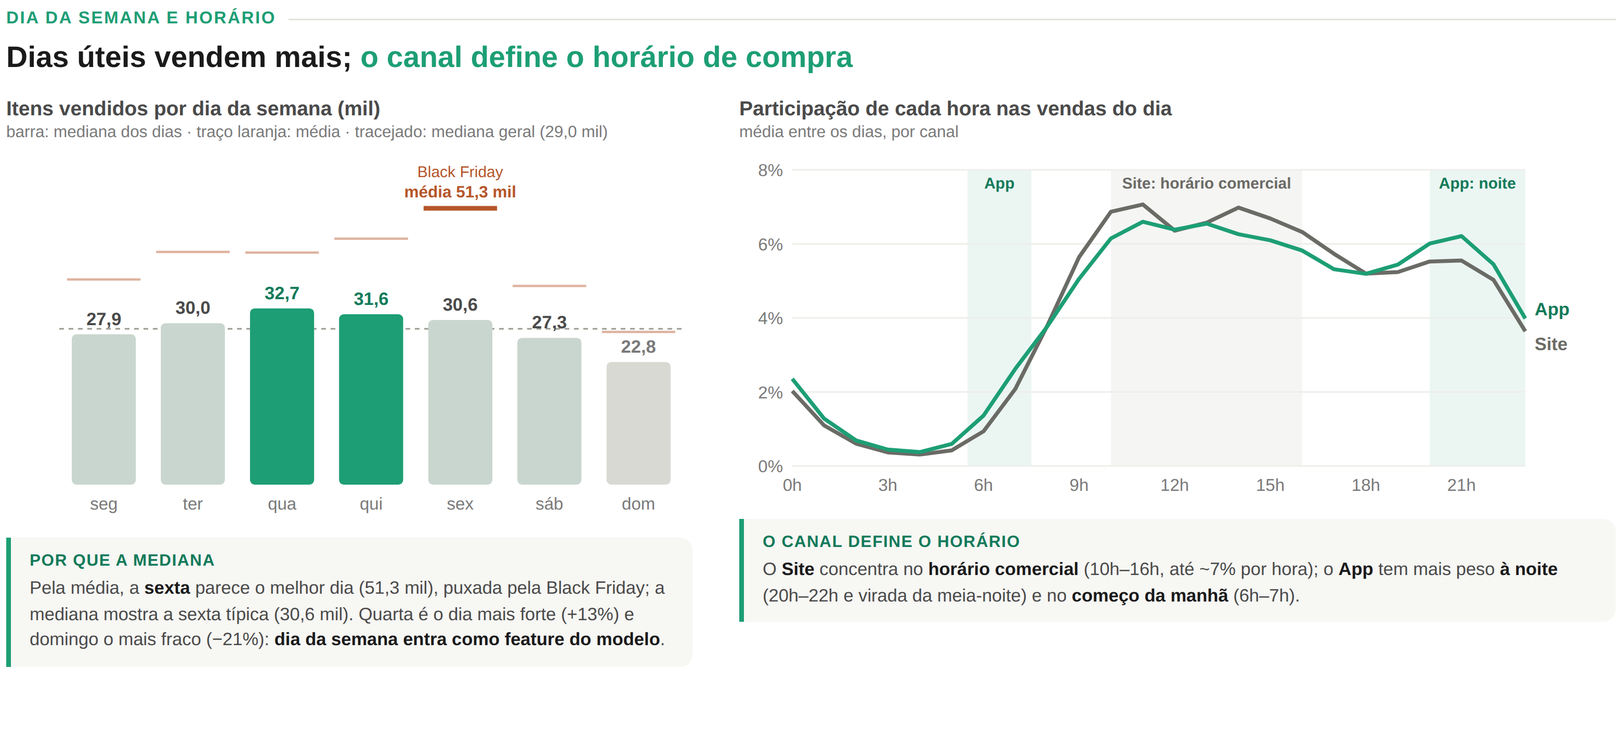
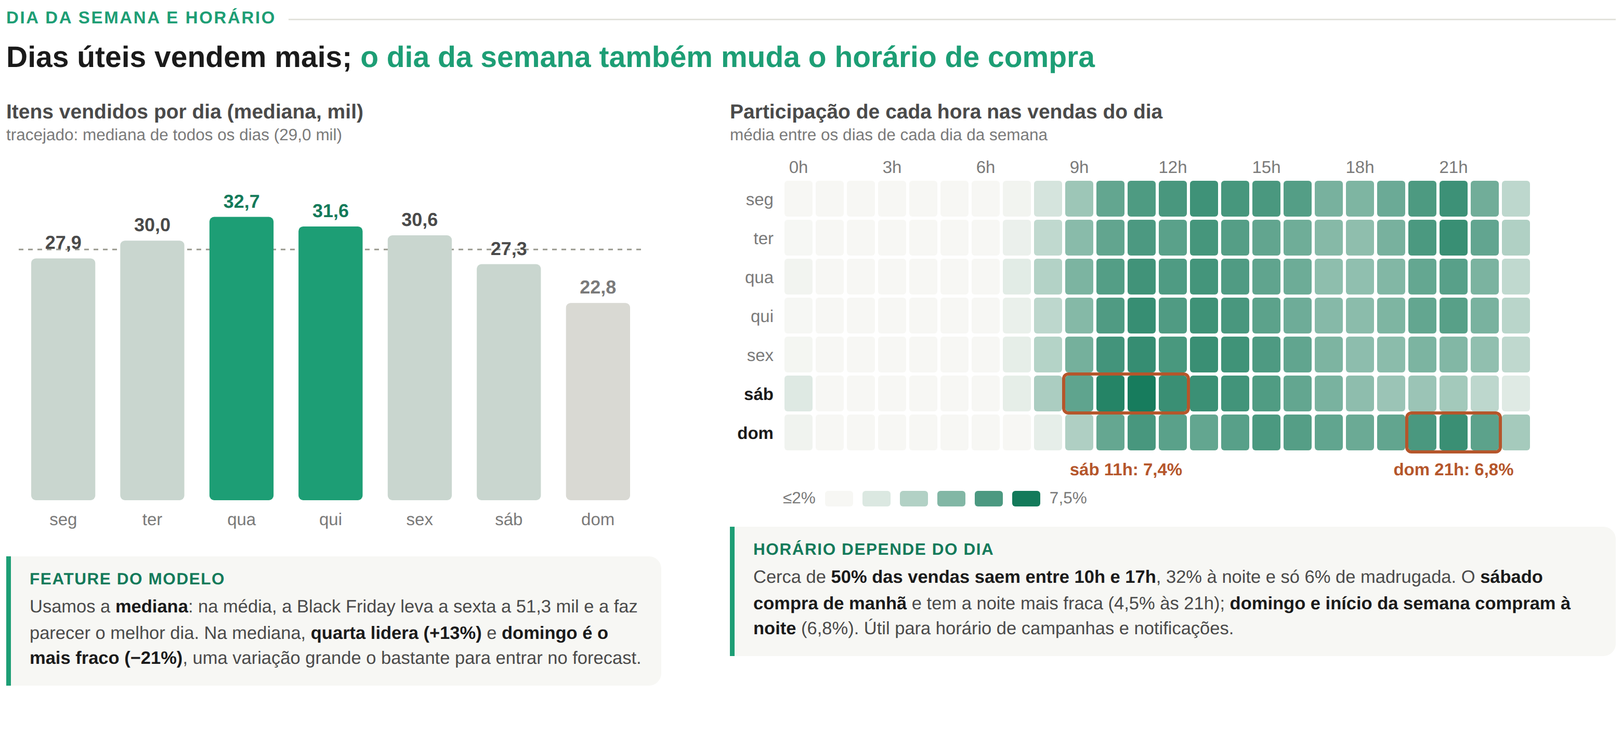
Widget dia da semana e horário: só mediana por dia e mapa de calor dia × hora
Claude-Session: https://claude.ai/code/session_01NUJZKTcM8cs9QBTcUeuacF

diff --git a/apresentacao/widgets/06_semana_hora.html b/apresentacao/widgets/06_semana_hora.html
@@ -5,39 +5,30 @@
 <title>Semana e horário</title>
 <style>
   :root { --verde: #1d9e75; --verde-escuro: #137a5a; --verde-claro: #e3f5ee; --laranja: #b5562b;
-          --tinta: #1a1a1a; --tinta-2: #4a4a4a; --tinta-3: #7a7a7a; --linha: #e3e3dc; --site: #6b6b66; }
+          --tinta: #1a1a1a; --tinta-2: #4a4a4a; --tinta-3: #7a7a7a; --linha: #e3e3dc; }
   * { box-sizing: border-box; margin: 0; padding: 0; }
   body { width: 1040px; height: 480px; background: #fff; font-family: Arial, "Helvetica Neue", Helvetica, sans-serif; color: var(--tinta); }
   .widget { height: 100%; padding: 6px 4px; }
   .rotulo { font-size: 11px; font-weight: 700; letter-spacing: .08em; text-transform: uppercase; color: var(--verde);
             margin-bottom: 8px; display: flex; align-items: center; gap: 8px; }
   .rotulo::after { content: ""; flex: 1; height: 1px; background: var(--linha); }
-  h3 { font-size: 19px; line-height: 1.25; margin-bottom: 12px; }
+  h3 { font-size: 19px; line-height: 1.25; margin-bottom: 14px; }
   h3 span { color: var(--verde); }
-  .colunas { display: grid; grid-template-columns: 440px 1fr; gap: 30px; }
+  .colunas { display: grid; grid-template-columns: 420px 1fr; gap: 44px; }
   .bloco-tit { font-size: 13px; font-weight: 700; color: var(--tinta-2); }
   .bloco-tit span { display: block; font-size: 10.5px; font-weight: 400; color: var(--tinta-3); margin-top: 2px; }
-  svg { display: block; margin-top: 4px; }
+  svg { display: block; margin-top: 6px; }
   svg text { font-family: Arial, sans-serif; }
   .eixo { font-size: 11px; fill: var(--tinta-3); }
-  .grade { stroke: #eeeeea; }
+  .forte-t { fill: var(--tinta); font-weight: 700; }
   .b.forte { fill: var(--verde); } .b.neutro { fill: #c9d6cf; } .b.fraco { fill: #d9d9d3; }
-  .v { font-size: 11.5px; font-weight: 700; fill: var(--tinta-2); } .v.forte { fill: var(--verde-escuro); } .v.fraco { fill: var(--tinta-3); }
-  .media { stroke: var(--laranja); stroke-width: 1.5; stroke-opacity: .45; }
-  .media.sexta { stroke-width: 3; stroke-opacity: 1; }
-  .media-t { font-size: 10.5px; font-weight: 700; fill: var(--laranja); }
-  .media-t2 { font-size: 10px; fill: var(--laranja); }
-  .ref { stroke: #9a9a90; stroke-dasharray: 3 3; } .ref-t { font-size: 10px; fill: var(--tinta-3); }
-  .l { fill: none; stroke-width: 2.5; stroke-linejoin: round; }
-  .l.app { stroke: var(--verde); } .l.site { stroke: var(--site); }
-  .z-site { fill: #6b6b66; fill-opacity: .07; } .z-app { fill: var(--verde); fill-opacity: .09; }
-  .z-t { font-size: 10px; font-weight: 700; }
-  .app-t { fill: var(--verde-escuro); } .site-t { fill: var(--site); }
-  .leg { font-size: 11.5px; font-weight: 700; }
-  .legenda { font-size: 10.5px; color: var(--tinta-3); margin-top: 2px; }
-  .legenda i { display: inline-block; width: 14px; height: 3px; background: var(--laranja); vertical-align: middle; margin-right: 4px; }
-  .legenda i.m { width: 10px; height: 10px; background: var(--verde); border-radius: 2px; }
-  .nota { margin-top: 10px; border-left: 3px solid var(--verde); background: #f7f7f4; border-radius: 0 8px 8px 0; padding: 8px 12px;
+  .v { font-size: 12px; font-weight: 700; fill: var(--tinta-2); } .v.forte { fill: var(--verde-escuro); } .v.fraco { fill: var(--tinta-3); }
+  .ref { stroke: #9a9a90; stroke-dasharray: 3 3; }
+  .destaque { fill: none; stroke: var(--laranja); stroke-width: 2; }
+  .dest-t { font-size: 11px; font-weight: 700; fill: var(--laranja); }
+  .escala { display: flex; align-items: center; gap: 6px; font-size: 10.5px; color: var(--tinta-3); margin: 2px 0 0 34px; }
+  .escala i { display: inline-block; width: 18px; height: 10px; border-radius: 2px; }
+  .nota { margin-top: 12px; border-left: 3px solid var(--verde); background: #f7f7f4; border-radius: 0 8px 8px 0; padding: 8px 12px;
           font-size: 11.5px; line-height: 1.45; color: var(--tinta-2); }
   .nota b { color: var(--tinta); }
   .nota .tit { display: block; font-size: 10.5px; font-weight: 700; color: var(--verde-escuro); text-transform: uppercase; letter-spacing: .05em; margin-bottom: 2px; }
@@ -46,17 +37,18 @@
 <body>
 <div class="widget">
   <div class="rotulo">Dia da semana e horário</div>
-  <h3>Dias úteis vendem mais; <span>o canal define o horário de compra</span></h3>
+  <h3>Dias úteis vendem mais; <span>o dia da semana também muda o horário de compra</span></h3>
   <div class="colunas">
     <div>
-      <div class="bloco-tit">Itens vendidos por dia da semana (mil)<span>barra: mediana dos dias · traço laranja: média · tracejado: mediana geral (29,0 mil)</span></div>
-      <svg width="440" height="240"><line x1="34" x2="434" y1="116.0" y2="116.0" class="ref"/><rect x="42.0" y="119.5" width="41.1" height="96.5" rx="3" class="b neutro"/><text x="62.6" y="113.5" text-anchor="middle" class="v neutro">27,9</text><line x1="39.0" x2="86.1" y1="84.3" y2="84.3" class="media"/><text x="62.6" y="232" text-anchor="middle" class="eixo">seg</text><rect x="99.1" y="112.4" width="41.1" height="103.6" rx="3" class="b neutro"/><text x="119.7" y="106.4" text-anchor="middle" class="v neutro">30,0</text><line x1="96.1" x2="143.3" y1="66.7" y2="66.7" class="media"/><text x="119.7" y="232" text-anchor="middle" class="eixo">ter</text><rect x="156.3" y="102.9" width="41.1" height="113.1" rx="3" class="b forte"/><text x="176.9" y="96.9" text-anchor="middle" class="v forte">32,7</text><line x1="153.3" x2="200.4" y1="67.1" y2="67.1" class="media"/><text x="176.9" y="232" text-anchor="middle" class="eixo">qua</text><rect x="213.4" y="106.7" width="41.1" height="109.3" rx="3" class="b forte"/><text x="234.0" y="100.7" text-anchor="middle" class="v forte">31,6</text><line x1="210.4" x2="257.6" y1="58.2" y2="58.2" class="media"/><text x="234.0" y="232" text-anchor="middle" class="eixo">qui</text><rect x="270.6" y="110.3" width="41.1" height="105.7" rx="3" class="b neutro"/><text x="291.1" y="104.3" text-anchor="middle" class="v neutro">30,6</text><line x1="267.6" x2="314.7" y1="38.7" y2="38.7" class="media sexta"/><text x="291.1" y="232" text-anchor="middle" class="eixo">sex</text><rect x="327.7" y="121.8" width="41.1" height="94.2" rx="3" class="b neutro"/><text x="348.3" y="115.8" text-anchor="middle" class="v neutro">27,3</text><line x1="324.7" x2="371.9" y1="88.5" y2="88.5" class="media"/><text x="348.3" y="232" text-anchor="middle" class="eixo">sáb</text><rect x="384.9" y="137.3" width="41.1" height="78.7" rx="3" class="b fraco"/><text x="405.4" y="131.3" text-anchor="middle" class="v fraco">22,8</text><line x1="381.9" x2="429.0" y1="118.0" y2="118.0" class="media"/><text x="405.4" y="232" text-anchor="middle" class="eixo">dom</text><text x="291.1" y="31.7" text-anchor="middle" class="media-t">média 51,3 mil</text><text x="291.1" y="18.7" text-anchor="middle" class="media-t2">Black Friday</text></svg>
-      <div class="nota"><span class="tit">Por que a mediana</span>Pela média, a <b>sexta</b> parece o melhor dia (51,3 mil), puxada pela Black Friday; a mediana mostra a sexta típica (30,6 mil). Quarta é o dia mais forte (+13%) e domingo o mais fraco (−21%): <b>dia da semana entra como feature do modelo</b>.</div>
+      <div class="bloco-tit">Itens vendidos por dia (mediana, mil)<span>tracejado: mediana de todos os dias (29,0 mil)</span></div>
+      <svg width="414" height="246"><line x1="8" x2="408" y1="61.1" y2="61.1" class="ref"/><rect x="16.0" y="66.8" width="41.1" height="155.2" rx="3" class="b neutro"/><text x="36.6" y="60.8" text-anchor="middle" class="v neutro">27,9</text><text x="36.6" y="238" text-anchor="middle" class="eixo">seg</text><rect x="73.1" y="55.4" width="41.1" height="166.6" rx="3" class="b neutro"/><text x="93.7" y="49.4" text-anchor="middle" class="v neutro">30,0</text><text x="93.7" y="238" text-anchor="middle" class="eixo">ter</text><rect x="130.3" y="40.2" width="41.1" height="181.8" rx="3" class="b forte"/><text x="150.9" y="34.2" text-anchor="middle" class="v forte">32,7</text><text x="150.9" y="238" text-anchor="middle" class="eixo">qua</text><rect x="187.4" y="46.3" width="41.1" height="175.7" rx="3" class="b forte"/><text x="208.0" y="40.3" text-anchor="middle" class="v forte">31,6</text><text x="208.0" y="238" text-anchor="middle" class="eixo">qui</text><rect x="244.6" y="52.0" width="41.1" height="170.0" rx="3" class="b neutro"/><text x="265.1" y="46.0" text-anchor="middle" class="v neutro">30,6</text><text x="265.1" y="238" text-anchor="middle" class="eixo">sex</text><rect x="301.7" y="70.5" width="41.1" height="151.5" rx="3" class="b neutro"/><text x="322.3" y="64.5" text-anchor="middle" class="v neutro">27,3</text><text x="322.3" y="238" text-anchor="middle" class="eixo">sáb</text><rect x="358.9" y="95.4" width="41.1" height="126.6" rx="3" class="b fraco"/><text x="379.4" y="89.4" text-anchor="middle" class="v fraco">22,8</text><text x="379.4" y="238" text-anchor="middle" class="eixo">dom</text></svg>
+      <div class="nota"><span class="tit">Feature do modelo</span>Usamos a <b>mediana</b>: na média, a Black Friday leva a sexta a 51,3 mil e a faz parecer o melhor dia. Na mediana, <b>quarta lidera (+13%)</b> e <b>domingo é o mais fraco (−21%)</b>, uma variação grande o bastante para entrar no forecast.</div>
     </div>
     <div>
-      <div class="bloco-tit">Participação de cada hora nas vendas do dia<span>média entre os dias, por canal</span></div>
-      <svg width="540" height="228"><rect x="238.3" y="14" width="122.6" height="190" class="z-site"/><text x="299.7" y="26" text-anchor="middle" class="z-t site-t">Site: horário comercial</text><rect x="442.7" y="14" width="61.3" height="190" class="z-app"/><text x="473.3" y="26" text-anchor="middle" class="z-t app-t">App: noite</text><rect x="146.4" y="14" width="40.9" height="190" class="z-app"/><text x="166.8" y="26" text-anchor="middle" class="z-t app-t">App</text><line x1="34" x2="504" y1="204.0" y2="204.0" class="grade"/><text x="28" y="208.0" text-anchor="end" class="eixo">0%</text><line x1="34" x2="504" y1="156.5" y2="156.5" class="grade"/><text x="28" y="160.5" text-anchor="end" class="eixo">2%</text><line x1="34" x2="504" y1="109.0" y2="109.0" class="grade"/><text x="28" y="113.0" text-anchor="end" class="eixo">4%</text><line x1="34" x2="504" y1="61.5" y2="61.5" class="grade"/><text x="28" y="65.5" text-anchor="end" class="eixo">6%</text><line x1="34" x2="504" y1="14.0" y2="14.0" class="grade"/><text x="28" y="18.0" text-anchor="end" class="eixo">8%</text><text x="34.0" y="220" text-anchor="middle" class="eixo">0h</text><text x="95.3" y="220" text-anchor="middle" class="eixo">3h</text><text x="156.6" y="220" text-anchor="middle" class="eixo">6h</text><text x="217.9" y="220" text-anchor="middle" class="eixo">9h</text><text x="279.2" y="220" text-anchor="middle" class="eixo">12h</text><text x="340.5" y="220" text-anchor="middle" class="eixo">15h</text><text x="401.8" y="220" text-anchor="middle" class="eixo">18h</text><text x="463.1" y="220" text-anchor="middle" class="eixo">21h</text><polyline points="34.0,155.9 54.4,178.0 74.9,189.7 95.3,195.3 115.7,196.7 136.2,194.0 156.6,181.8 177.0,154.6 197.5,114.0 217.9,70.0 238.3,40.9 258.8,36.2 279.2,53.0 299.7,47.9 320.1,38.2 340.5,45.2 361.0,53.9 381.4,67.9 401.8,80.6 422.3,79.6 442.7,72.8 463.1,72.2 483.6,84.6 504.0,117.6" class="l site"/><polyline points="34.0,148.1 54.4,173.6 74.9,187.6 95.3,193.5 115.7,195.1 136.2,189.9 156.6,171.7 177.0,141.7 197.5,114.5 217.9,83.9 238.3,58.0 258.8,47.3 279.2,52.4 299.7,48.5 320.1,55.3 340.5,59.2 361.0,65.8 381.4,77.8 401.8,80.7 422.3,74.8 442.7,61.3 463.1,56.5 483.6,74.6 504.0,109.4" class="l app"/><text x="510.0" y="107.4" class="leg app-t">App</text><text x="510.0" y="129.6" class="leg site-t">Site</text></svg>
-      <div class="nota"><span class="tit">O canal define o horário</span>O <b>Site</b> concentra no <b>horário comercial</b> (10h–16h, até ~7% por hora); o <b>App</b> tem mais peso <b>à noite</b> (20h–22h e virada da meia-noite) e no <b>começo da manhã</b> (6h–7h).</div>
+      <div class="bloco-tit">Participação de cada hora nas vendas do dia<span>média entre os dias de cada dia da semana</span></div>
+      <svg width="522" height="213"><text x="44.0" y="12" text-anchor="middle" class="eixo">0h</text><text x="104.0" y="12" text-anchor="middle" class="eixo">3h</text><text x="164.0" y="12" text-anchor="middle" class="eixo">6h</text><text x="224.0" y="12" text-anchor="middle" class="eixo">9h</text><text x="284.0" y="12" text-anchor="middle" class="eixo">12h</text><text x="344.0" y="12" text-anchor="middle" class="eixo">15h</text><text x="404.0" y="12" text-anchor="middle" class="eixo">18h</text><text x="464.0" y="12" text-anchor="middle" class="eixo">21h</text><text x="28" y="32.5" text-anchor="end" class="eixo">seg</text><rect x="35.0" y="17.0" width="18" height="23" rx="2" fill="#f7f7f4"/><rect x="55.0" y="17.0" width="18" height="23" rx="2" fill="#f7f7f4"/><rect x="75.0" y="17.0" width="18" height="23" rx="2" fill="#f7f7f4"/><rect x="95.0" y="17.0" width="18" height="23" rx="2" fill="#f7f7f4"/><rect x="115.0" y="17.0" width="18" height="23" rx="2" fill="#f7f7f4"/><rect x="135.0" y="17.0" width="18" height="23" rx="2" fill="#f7f7f4"/><rect x="155.0" y="17.0" width="18" height="23" rx="2" fill="#f7f7f4"/><rect x="175.0" y="17.0" width="18" height="23" rx="2" fill="#f2f4f0"/><rect x="195.0" y="17.0" width="18" height="23" rx="2" fill="#d5e4dd"/><rect x="215.0" y="17.0" width="18" height="23" rx="2" fill="#9dc6b7"/><rect x="235.0" y="17.0" width="18" height="23" rx="2" fill="#63a690"/><rect x="255.0" y="17.0" width="18" height="23" rx="2" fill="#4e9b82"/><rect x="275.0" y="17.0" width="18" height="23" rx="2" fill="#49977e"/><rect x="295.0" y="17.0" width="18" height="23" rx="2" fill="#3f9278"/><rect x="315.0" y="17.0" width="18" height="23" rx="2" fill="#47977d"/><rect x="335.0" y="17.0" width="18" height="23" rx="2" fill="#4a987f"/><rect x="355.0" y="17.0" width="18" height="23" rx="2" fill="#549e86"/><rect x="375.0" y="17.0" width="18" height="23" rx="2" fill="#78b19e"/><rect x="395.0" y="17.0" width="18" height="23" rx="2" fill="#7eb5a2"/><rect x="415.0" y="17.0" width="18" height="23" rx="2" fill="#6baa96"/><rect x="435.0" y="17.0" width="18" height="23" rx="2" fill="#4d9a81"/><rect x="455.0" y="17.0" width="18" height="23" rx="2" fill="#3d9177"/><rect x="475.0" y="17.0" width="18" height="23" rx="2" fill="#71ad99"/><rect x="495.0" y="17.0" width="18" height="23" rx="2" fill="#bdd7cd"/><text x="28" y="57.5" text-anchor="end" class="eixo">ter</text><rect x="35.0" y="42.0" width="18" height="23" rx="2" fill="#f6f7f4"/><rect x="55.0" y="42.0" width="18" height="23" rx="2" fill="#f7f7f4"/><rect x="75.0" y="42.0" width="18" height="23" rx="2" fill="#f7f7f4"/><rect x="95.0" y="42.0" width="18" height="23" rx="2" fill="#f7f7f4"/><rect x="115.0" y="42.0" width="18" height="23" rx="2" fill="#f7f7f4"/><rect x="135.0" y="42.0" width="18" height="23" rx="2" fill="#f7f7f4"/><rect x="155.0" y="42.0" width="18" height="23" rx="2" fill="#f7f7f4"/><rect x="175.0" y="42.0" width="18" height="23" rx="2" fill="#ebf0ec"/><rect x="195.0" y="42.0" width="18" height="23" rx="2" fill="#c0d9cf"/><rect x="215.0" y="42.0" width="18" height="23" rx="2" fill="#89bbaa"/><rect x="235.0" y="42.0" width="18" height="23" rx="2" fill="#62a58f"/><rect x="255.0" y="42.0" width="18" height="23" rx="2" fill="#4c9981"/><rect x="275.0" y="42.0" width="18" height="23" rx="2" fill="#5aa18a"/><rect x="295.0" y="42.0" width="18" height="23" rx="2" fill="#46967c"/><rect x="315.0" y="42.0" width="18" height="23" rx="2" fill="#559e86"/><rect x="335.0" y="42.0" width="18" height="23" rx="2" fill="#62a58f"/><rect x="355.0" y="42.0" width="18" height="23" rx="2" fill="#6fad98"/><rect x="375.0" y="42.0" width="18" height="23" rx="2" fill="#86b9a7"/><rect x="395.0" y="42.0" width="18" height="23" rx="2" fill="#8fbead"/><rect x="415.0" y="42.0" width="18" height="23" rx="2" fill="#78b19e"/><rect x="435.0" y="42.0" width="18" height="23" rx="2" fill="#4b9980"/><rect x="455.0" y="42.0" width="18" height="23" rx="2" fill="#398f74"/><rect x="475.0" y="42.0" width="18" height="23" rx="2" fill="#62a590"/><rect x="495.0" y="42.0" width="18" height="23" rx="2" fill="#b0d0c4"/><text x="28" y="82.5" text-anchor="end" class="eixo">qua</text><rect x="35.0" y="67.0" width="18" height="23" rx="2" fill="#f2f4f0"/><rect x="55.0" y="67.0" width="18" height="23" rx="2" fill="#f7f7f4"/><rect x="75.0" y="67.0" width="18" height="23" rx="2" fill="#f7f7f4"/><rect x="95.0" y="67.0" width="18" height="23" rx="2" fill="#f7f7f4"/><rect x="115.0" y="67.0" width="18" height="23" rx="2" fill="#f7f7f4"/><rect x="135.0" y="67.0" width="18" height="23" rx="2" fill="#f7f7f4"/><rect x="155.0" y="67.0" width="18" height="23" rx="2" fill="#f7f7f4"/><rect x="175.0" y="67.0" width="18" height="23" rx="2" fill="#e2ece6"/><rect x="195.0" y="67.0" width="18" height="23" rx="2" fill="#b3d2c6"/><rect x="215.0" y="67.0" width="18" height="23" rx="2" fill="#7cb4a1"/><rect x="235.0" y="67.0" width="18" height="23" rx="2" fill="#549e86"/><rect x="255.0" y="67.0" width="18" height="23" rx="2" fill="#419379"/><rect x="275.0" y="67.0" width="18" height="23" rx="2" fill="#4f9b83"/><rect x="295.0" y="67.0" width="18" height="23" rx="2" fill="#44957b"/><rect x="315.0" y="67.0" width="18" height="23" rx="2" fill="#509b83"/><rect x="335.0" y="67.0" width="18" height="23" rx="2" fill="#60a48e"/><rect x="355.0" y="67.0" width="18" height="23" rx="2" fill="#6dac97"/><rect x="375.0" y="67.0" width="18" height="23" rx="2" fill="#8ebead"/><rect x="395.0" y="67.0" width="18" height="23" rx="2" fill="#90bfaf"/><rect x="415.0" y="67.0" width="18" height="23" rx="2" fill="#82b7a5"/><rect x="435.0" y="67.0" width="18" height="23" rx="2" fill="#64a791"/><rect x="455.0" y="67.0" width="18" height="23" rx="2" fill="#58a089"/><rect x="475.0" y="67.0" width="18" height="23" rx="2" fill="#7bb3a0"/><rect x="495.0" y="67.0" width="18" height="23" rx="2" fill="#c0d9cf"/><text x="28" y="107.5" text-anchor="end" class="eixo">qui</text><rect x="35.0" y="92.0" width="18" height="23" rx="2" fill="#f6f7f4"/><rect x="55.0" y="92.0" width="18" height="23" rx="2" fill="#f7f7f4"/><rect x="75.0" y="92.0" width="18" height="23" rx="2" fill="#f7f7f4"/><rect x="95.0" y="92.0" width="18" height="23" rx="2" fill="#f7f7f4"/><rect x="115.0" y="92.0" width="18" height="23" rx="2" fill="#f7f7f4"/><rect x="135.0" y="92.0" width="18" height="23" rx="2" fill="#f7f7f4"/><rect x="155.0" y="92.0" width="18" height="23" rx="2" fill="#f7f7f4"/><rect x="175.0" y="92.0" width="18" height="23" rx="2" fill="#eaf0eb"/><rect x="195.0" y="92.0" width="18" height="23" rx="2" fill="#bdd7cd"/><rect x="215.0" y="92.0" width="18" height="23" rx="2" fill="#85b9a7"/><rect x="235.0" y="92.0" width="18" height="23" rx="2" fill="#509b83"/><rect x="255.0" y="92.0" width="18" height="23" rx="2" fill="#378e73"/><rect x="275.0" y="92.0" width="18" height="23" rx="2" fill="#509b83"/><rect x="295.0" y="92.0" width="18" height="23" rx="2" fill="#3f9277"/><rect x="315.0" y="92.0" width="18" height="23" rx="2" fill="#49977e"/><rect x="335.0" y="92.0" width="18" height="23" rx="2" fill="#5ca28b"/><rect x="355.0" y="92.0" width="18" height="23" rx="2" fill="#6eac98"/><rect x="375.0" y="92.0" width="18" height="23" rx="2" fill="#86b9a8"/><rect x="395.0" y="92.0" width="18" height="23" rx="2" fill="#8bbcab"/><rect x="415.0" y="92.0" width="18" height="23" rx="2" fill="#7eb5a2"/><rect x="435.0" y="92.0" width="18" height="23" rx="2" fill="#63a690"/><rect x="455.0" y="92.0" width="18" height="23" rx="2" fill="#58a088"/><rect x="475.0" y="92.0" width="18" height="23" rx="2" fill="#79b29f"/><rect x="495.0" y="92.0" width="18" height="23" rx="2" fill="#b9d5ca"/><text x="28" y="132.5" text-anchor="end" class="eixo">sex</text><rect x="35.0" y="117.0" width="18" height="23" rx="2" fill="#f4f6f2"/><rect x="55.0" y="117.0" width="18" height="23" rx="2" fill="#f7f7f4"/><rect x="75.0" y="117.0" width="18" height="23" rx="2" fill="#f7f7f4"/><rect x="95.0" y="117.0" width="18" height="23" rx="2" fill="#f7f7f4"/><rect x="115.0" y="117.0" width="18" height="23" rx="2" fill="#f7f7f4"/><rect x="135.0" y="117.0" width="18" height="23" rx="2" fill="#f7f7f4"/><rect x="155.0" y="117.0" width="18" height="23" rx="2" fill="#f7f7f4"/><rect x="175.0" y="117.0" width="18" height="23" rx="2" fill="#e6eee8"/><rect x="195.0" y="117.0" width="18" height="23" rx="2" fill="#b4d3c7"/><rect x="215.0" y="117.0" width="18" height="23" rx="2" fill="#75b09c"/><rect x="235.0" y="117.0" width="18" height="23" rx="2" fill="#43947b"/><rect x="255.0" y="117.0" width="18" height="23" rx="2" fill="#368d72"/><rect x="275.0" y="117.0" width="18" height="23" rx="2" fill="#49987e"/><rect x="295.0" y="117.0" width="18" height="23" rx="2" fill="#3a8f74"/><rect x="315.0" y="117.0" width="18" height="23" rx="2" fill="#409378"/><rect x="335.0" y="117.0" width="18" height="23" rx="2" fill="#4e9a82"/><rect x="355.0" y="117.0" width="18" height="23" rx="2" fill="#61a58f"/><rect x="375.0" y="117.0" width="18" height="23" rx="2" fill="#7db4a1"/><rect x="395.0" y="117.0" width="18" height="23" rx="2" fill="#8dbdad"/><rect x="415.0" y="117.0" width="18" height="23" rx="2" fill="#8bbcab"/><rect x="435.0" y="117.0" width="18" height="23" rx="2" fill="#7cb4a1"/><rect x="455.0" y="117.0" width="18" height="23" rx="2" fill="#82b7a5"/><rect x="475.0" y="117.0" width="18" height="23" rx="2" fill="#91bfaf"/><rect x="495.0" y="117.0" width="18" height="23" rx="2" fill="#bfd8ce"/><text x="28" y="157.5" text-anchor="end" class="eixo forte-t">sáb</text><rect x="35.0" y="142.0" width="18" height="23" rx="2" fill="#dee9e3"/><rect x="55.0" y="142.0" width="18" height="23" rx="2" fill="#f7f7f4"/><rect x="75.0" y="142.0" width="18" height="23" rx="2" fill="#f7f7f4"/><rect x="95.0" y="142.0" width="18" height="23" rx="2" fill="#f7f7f4"/><rect x="115.0" y="142.0" width="18" height="23" rx="2" fill="#f7f7f4"/><rect x="135.0" y="142.0" width="18" height="23" rx="2" fill="#f7f7f4"/><rect x="155.0" y="142.0" width="18" height="23" rx="2" fill="#f7f7f4"/><rect x="175.0" y="142.0" width="18" height="23" rx="2" fill="#e6eee8"/><rect x="195.0" y="142.0" width="18" height="23" rx="2" fill="#abcdc1"/><rect x="215.0" y="142.0" width="18" height="23" rx="2" fill="#5fa48e"/><rect x="235.0" y="142.0" width="18" height="23" rx="2" fill="#258466"/><rect x="255.0" y="142.0" width="18" height="23" rx="2" fill="#177c5d"/><rect x="275.0" y="142.0" width="18" height="23" rx="2" fill="#3a8f74"/><rect x="295.0" y="142.0" width="18" height="23" rx="2" fill="#3b9075"/><rect x="315.0" y="142.0" width="18" height="23" rx="2" fill="#42947a"/><rect x="335.0" y="142.0" width="18" height="23" rx="2" fill="#509c83"/><rect x="355.0" y="142.0" width="18" height="23" rx="2" fill="#63a690"/><rect x="375.0" y="142.0" width="18" height="23" rx="2" fill="#79b29f"/><rect x="395.0" y="142.0" width="18" height="23" rx="2" fill="#8ebdad"/><rect x="415.0" y="142.0" width="18" height="23" rx="2" fill="#9bc4b6"/><rect x="435.0" y="142.0" width="18" height="23" rx="2" fill="#9bc4b6"/><rect x="455.0" y="142.0" width="18" height="23" rx="2" fill="#a3c9bb"/><rect x="475.0" y="142.0" width="18" height="23" rx="2" fill="#bdd7cd"/><rect x="495.0" y="142.0" width="18" height="23" rx="2" fill="#dfeae4"/><text x="28" y="182.5" text-anchor="end" class="eixo forte-t">dom</text><rect x="35.0" y="167.0" width="18" height="23" rx="2" fill="#f0f3ef"/><rect x="55.0" y="167.0" width="18" height="23" rx="2" fill="#f7f7f4"/><rect x="75.0" y="167.0" width="18" height="23" rx="2" fill="#f7f7f4"/><rect x="95.0" y="167.0" width="18" height="23" rx="2" fill="#f7f7f4"/><rect x="115.0" y="167.0" width="18" height="23" rx="2" fill="#f7f7f4"/><rect x="135.0" y="167.0" width="18" height="23" rx="2" fill="#f7f7f4"/><rect x="155.0" y="167.0" width="18" height="23" rx="2" fill="#f7f7f4"/><rect x="175.0" y="167.0" width="18" height="23" rx="2" fill="#f7f7f4"/><rect x="195.0" y="167.0" width="18" height="23" rx="2" fill="#e6eee9"/><rect x="215.0" y="167.0" width="18" height="23" rx="2" fill="#afcfc3"/><rect x="235.0" y="167.0" width="18" height="23" rx="2" fill="#65a791"/><rect x="255.0" y="167.0" width="18" height="23" rx="2" fill="#48977e"/><rect x="275.0" y="167.0" width="18" height="23" rx="2" fill="#5aa18a"/><rect x="295.0" y="167.0" width="18" height="23" rx="2" fill="#63a690"/><rect x="315.0" y="167.0" width="18" height="23" rx="2" fill="#58a089"/><rect x="335.0" y="167.0" width="18" height="23" rx="2" fill="#4b9980"/><rect x="355.0" y="167.0" width="18" height="23" rx="2" fill="#559e86"/><rect x="375.0" y="167.0" width="18" height="23" rx="2" fill="#61a58f"/><rect x="395.0" y="167.0" width="18" height="23" rx="2" fill="#6baa95"/><rect x="415.0" y="167.0" width="18" height="23" rx="2" fill="#62a58f"/><rect x="435.0" y="167.0" width="18" height="23" rx="2" fill="#4a987f"/><rect x="455.0" y="167.0" width="18" height="23" rx="2" fill="#3a8f74"/><rect x="475.0" y="167.0" width="18" height="23" rx="2" fill="#5ca28b"/><rect x="495.0" y="167.0" width="18" height="23" rx="2" fill="#a5cabc"/><rect x="214.0" y="141.0" width="80.0" height="25" rx="3" class="destaque"/><text x="254.0" y="206.0" text-anchor="middle" class="dest-t">sáb 11h: 7,4%</text><rect x="434.0" y="166.0" width="60.0" height="25" rx="3" class="destaque"/><text x="464.0" y="206.0" text-anchor="middle" class="dest-t">dom 21h: 6,8%</text></svg>
+      <div class="escala">≤2% <i style="background:#f7f7f4"></i><i style="background:#dbe8e1"></i><i style="background:#b2d1c5"></i><i style="background:#82b7a5"></i><i style="background:#4c9981"></i><i style="background:#137a5a"></i> 7,5%</div>
+      <div class="nota"><span class="tit">Horário depende do dia</span>Cerca de <b>50% das vendas saem entre 10h e 17h</b>, 32% à noite e só 6% de madrugada. O <b>sábado compra de manhã</b> e tem a noite mais fraca (4,5% às 21h); <b>domingo e início da semana compram à noite</b> (6,8%). Útil para horário de campanhas e notificações.</div>
     </div>
   </div>
 </div>

diff --git a/apresentacao/geradores/06_semana_hora_modelo.html b/apresentacao/geradores/06_semana_hora_modelo.html
@@ -5,39 +5,30 @@
 <title>Semana e horário</title>
 <style>
   :root { --verde: #1d9e75; --verde-escuro: #137a5a; --verde-claro: #e3f5ee; --laranja: #b5562b;
-          --tinta: #1a1a1a; --tinta-2: #4a4a4a; --tinta-3: #7a7a7a; --linha: #e3e3dc; --site: #6b6b66; }
+          --tinta: #1a1a1a; --tinta-2: #4a4a4a; --tinta-3: #7a7a7a; --linha: #e3e3dc; }
   * { box-sizing: border-box; margin: 0; padding: 0; }
   body { width: 1040px; height: 480px; background: #fff; font-family: Arial, "Helvetica Neue", Helvetica, sans-serif; color: var(--tinta); }
   .widget { height: 100%; padding: 6px 4px; }
   .rotulo { font-size: 11px; font-weight: 700; letter-spacing: .08em; text-transform: uppercase; color: var(--verde);
             margin-bottom: 8px; display: flex; align-items: center; gap: 8px; }
   .rotulo::after { content: ""; flex: 1; height: 1px; background: var(--linha); }
-  h3 { font-size: 19px; line-height: 1.25; margin-bottom: 12px; }
+  h3 { font-size: 19px; line-height: 1.25; margin-bottom: 14px; }
   h3 span { color: var(--verde); }
-  .colunas { display: grid; grid-template-columns: 440px 1fr; gap: 30px; }
+  .colunas { display: grid; grid-template-columns: 420px 1fr; gap: 44px; }
   .bloco-tit { font-size: 13px; font-weight: 700; color: var(--tinta-2); }
   .bloco-tit span { display: block; font-size: 10.5px; font-weight: 400; color: var(--tinta-3); margin-top: 2px; }
-  svg { display: block; margin-top: 4px; }
+  svg { display: block; margin-top: 6px; }
   svg text { font-family: Arial, sans-serif; }
   .eixo { font-size: 11px; fill: var(--tinta-3); }
-  .grade { stroke: #eeeeea; }
+  .forte-t { fill: var(--tinta); font-weight: 700; }
   .b.forte { fill: var(--verde); } .b.neutro { fill: #c9d6cf; } .b.fraco { fill: #d9d9d3; }
-  .v { font-size: 11.5px; font-weight: 700; fill: var(--tinta-2); } .v.forte { fill: var(--verde-escuro); } .v.fraco { fill: var(--tinta-3); }
-  .media { stroke: var(--laranja); stroke-width: 1.5; stroke-opacity: .45; }
-  .media.sexta { stroke-width: 3; stroke-opacity: 1; }
-  .media-t { font-size: 10.5px; font-weight: 700; fill: var(--laranja); }
-  .media-t2 { font-size: 10px; fill: var(--laranja); }
-  .ref { stroke: #9a9a90; stroke-dasharray: 3 3; } .ref-t { font-size: 10px; fill: var(--tinta-3); }
-  .l { fill: none; stroke-width: 2.5; stroke-linejoin: round; }
-  .l.app { stroke: var(--verde); } .l.site { stroke: var(--site); }
-  .z-site { fill: #6b6b66; fill-opacity: .07; } .z-app { fill: var(--verde); fill-opacity: .09; }
-  .z-t { font-size: 10px; font-weight: 700; }
-  .app-t { fill: var(--verde-escuro); } .site-t { fill: var(--site); }
-  .leg { font-size: 11.5px; font-weight: 700; }
-  .legenda { font-size: 10.5px; color: var(--tinta-3); margin-top: 2px; }
-  .legenda i { display: inline-block; width: 14px; height: 3px; background: var(--laranja); vertical-align: middle; margin-right: 4px; }
-  .legenda i.m { width: 10px; height: 10px; background: var(--verde); border-radius: 2px; }
-  .nota { margin-top: 10px; border-left: 3px solid var(--verde); background: #f7f7f4; border-radius: 0 8px 8px 0; padding: 8px 12px;
+  .v { font-size: 12px; font-weight: 700; fill: var(--tinta-2); } .v.forte { fill: var(--verde-escuro); } .v.fraco { fill: var(--tinta-3); }
+  .ref { stroke: #9a9a90; stroke-dasharray: 3 3; }
+  .destaque { fill: none; stroke: var(--laranja); stroke-width: 2; }
+  .dest-t { font-size: 11px; font-weight: 700; fill: var(--laranja); }
+  .escala { display: flex; align-items: center; gap: 6px; font-size: 10.5px; color: var(--tinta-3); margin: 2px 0 0 34px; }
+  .escala i { display: inline-block; width: 18px; height: 10px; border-radius: 2px; }
+  .nota { margin-top: 12px; border-left: 3px solid var(--verde); background: #f7f7f4; border-radius: 0 8px 8px 0; padding: 8px 12px;
           font-size: 11.5px; line-height: 1.45; color: var(--tinta-2); }
   .nota b { color: var(--tinta); }
   .nota .tit { display: block; font-size: 10.5px; font-weight: 700; color: var(--verde-escuro); text-transform: uppercase; letter-spacing: .05em; margin-bottom: 2px; }
@@ -46,17 +37,18 @@
 <body>
 <div class="widget">
   <div class="rotulo">Dia da semana e horário</div>
-  <h3>Dias úteis vendem mais; <span>o canal define o horário de compra</span></h3>
+  <h3>Dias úteis vendem mais; <span>o dia da semana também muda o horário de compra</span></h3>
   <div class="colunas">
     <div>
-      <div class="bloco-tit">Itens vendidos por dia da semana (mil)<span>barra: mediana dos dias · traço laranja: média · tracejado: mediana geral ({{GERAL}} mil)</span></div>
+      <div class="bloco-tit">Itens vendidos por dia (mediana, mil)<span>tracejado: mediana de todos os dias ({{GERAL}} mil)</span></div>
       {{SVG_DIA}}
-      <div class="nota"><span class="tit">Por que a mediana</span>Pela média, a <b>sexta</b> parece o melhor dia ({{SEX_MEDIA}} mil), puxada pela Black Friday; a mediana mostra a sexta típica ({{SEX_MEDIANA}} mil). Quarta é o dia mais forte ({{QUA_PCT}}) e domingo o mais fraco ({{DOM_PCT}}): <b>dia da semana entra como feature do modelo</b>.</div>
+      <div class="nota"><span class="tit">Feature do modelo</span>Usamos a <b>mediana</b>: na média, a Black Friday leva a sexta a {{SEX_MEDIA}} mil e a faz parecer o melhor dia. Na mediana, <b>quarta lidera ({{QUA_PCT}})</b> e <b>domingo é o mais fraco ({{DOM_PCT}})</b>, uma variação grande o bastante para entrar no forecast.</div>
     </div>
     <div>
-      <div class="bloco-tit">Participação de cada hora nas vendas do dia<span>média entre os dias, por canal</span></div>
+      <div class="bloco-tit">Participação de cada hora nas vendas do dia<span>média entre os dias de cada dia da semana</span></div>
       {{SVG_HORA}}
-      <div class="nota"><span class="tit">O canal define o horário</span>O <b>Site</b> concentra no <b>horário comercial</b> (10h–16h, até ~7% por hora); o <b>App</b> tem mais peso <b>à noite</b> (20h–22h e virada da meia-noite) e no <b>começo da manhã</b> (6h–7h).</div>
+      <div class="escala">≤2% {{LEG}} 7,5%</div>
+      <div class="nota"><span class="tit">Horário depende do dia</span>Cerca de <b>{{COMERCIAL}} das vendas saem entre 10h e 17h</b>, {{NOITE}} à noite e só {{MADRUGADA}} de madrugada. O <b>sábado compra de manhã</b> e tem a noite mais fraca ({{SAB_NOITE}} às 21h); <b>domingo e início da semana compram à noite</b> ({{DOM_NOITE}}). Útil para horário de campanhas e notificações.</div>
     </div>
   </div>
 </div>

diff --git a/apresentacao/geradores/06_semana_hora.py b/apresentacao/geradores/06_semana_hora.py
@@ -1,9 +1,8 @@
-"""Gera o widget 06_semana_hora.html: itens por dia da semana (mediana × média) e participação por hora, App × Site.
+"""Gera o widget 06_semana_hora.html: itens por dia da semana (mediana) e mapa de calor dia da semana × hora.
 
 Dados:
 - diario_qt.csv: qt_material total por dia (consulta no BigQuery);
-- hora_canal.csv: participação de cada hora no total do próprio dia, média entre os dias, por canal
-  (mesma lógica da seção 1.6 do notebook de análise exploratória).
+- semana_hora.csv: participação de cada hora no total do próprio dia, média entre os dias de cada dia da semana.
 """
 import sys
 from pathlib import Path
@@ -11,7 +10,8 @@ from pathlib import Path
 import pandas as pd
 
 diario = pd.read_csv(sys.argv[1], parse_dates=["dia"])
-hora = pd.read_csv(sys.argv[2], index_col="hora")
+grade = pd.read_csv(sys.argv[2], index_col="dow")
+grade.columns = grade.columns.astype(int)
 destino = Path(sys.argv[3])
 dias = ["seg", "ter", "qua", "qui", "sex", "sáb", "dom"]
 mil = lambda v: f"{v / 1e3:.1f}".replace(".", ",")
@@ -19,58 +19,59 @@ mil = lambda v: f"{v / 1e3:.1f}".replace(".", ",")
 s = diario.groupby(diario["dia"].dt.dayofweek)["qt"].agg(["mean", "median"])
 geral = diario["qt"].median()
 
-# ---- dia da semana: barras = mediana, traço = média
-L, T, W, H = 34, 26, 400, 190
-vmax = 55000
+# ---- dia da semana: barras = mediana
+L, T, W, H = 8, 22, 400, 200
+vmax = 36000
 bw = W / 7
 py = lambda v: T + H - v / vmax * H
 p = [f'<line x1="{L}" x2="{L + W}" y1="{py(geral):.1f}" y2="{py(geral):.1f}" class="ref"/>']
 for i, (dow, r) in enumerate(s.iterrows()):
     x = L + i * bw + 8
-    forte = r["median"] >= geral * 1.08
-    fraco = r["median"] <= geral * 0.9
-    classe = "forte" if forte else "fraco" if fraco else "neutro"
+    classe = "forte" if r["median"] >= geral * 1.08 else "fraco" if r["median"] <= geral * 0.9 else "neutro"
     p.append(f'<rect x="{x:.1f}" y="{py(r["median"]):.1f}" width="{bw - 16:.1f}" height="{T + H - py(r["median"]):.1f}" rx="3" class="b {classe}"/>'
              f'<text x="{x + (bw - 16) / 2:.1f}" y="{py(r["median"]) - 6:.1f}" text-anchor="middle" class="v {classe}">{mil(r["median"])}</text>'
-             f'<line x1="{x - 3:.1f}" x2="{x + bw - 13:.1f}" y1="{py(r["mean"]):.1f}" y2="{py(r["mean"]):.1f}" class="media{" sexta" if dow == 4 else ""}"/>'
              f'<text x="{x + (bw - 16) / 2:.1f}" y="{T + H + 16}" text-anchor="middle" class="eixo">{dias[dow]}</text>')
-sexta = s.loc[4, "mean"]
-xs = L + 4 * bw + (bw - 16) / 2 + 8
-p.append(f'<text x="{xs:.1f}" y="{py(sexta) - 7:.1f}" text-anchor="middle" class="media-t">média {mil(sexta)} mil</text>'
-         f'<text x="{xs:.1f}" y="{py(sexta) - 20:.1f}" text-anchor="middle" class="media-t2">Black Friday</text>')
 svg_dia = f'<svg width="{L + W + 6}" height="{T + H + 24}">{"".join(p)}</svg>'
 
-# ---- hora: participação no dia, App × Site
-L2, T2, W2, H2 = 34, 14, 470, 190
-hmax = 0.08
-hx = lambda h: L2 + h / 23 * W2
-hy = lambda v: T2 + H2 - v / hmax * H2
-q = [f'<rect x="{hx(10):.1f}" y="{T2}" width="{hx(16) - hx(10):.1f}" height="{H2}" class="z-site"/>',
-     f'<text x="{(hx(10) + hx(16)) / 2:.1f}" y="{T2 + 12}" text-anchor="middle" class="z-t site-t">Site: horário comercial</text>',
-     f'<rect x="{hx(20):.1f}" y="{T2}" width="{hx(23) - hx(20):.1f}" height="{H2}" class="z-app"/>',
-     f'<text x="{(hx(20) + hx(23)) / 2:.1f}" y="{T2 + 12}" text-anchor="middle" class="z-t app-t">App: noite</text>',
-     f'<rect x="{hx(5.5):.1f}" y="{T2}" width="{hx(7.5) - hx(5.5):.1f}" height="{H2}" class="z-app"/>',
-     f'<text x="{hx(6.5):.1f}" y="{T2 + 12}" text-anchor="middle" class="z-t app-t">App</text>']
-for v in (0, 0.02, 0.04, 0.06, 0.08):
-    q.append(f'<line x1="{L2}" x2="{L2 + W2}" y1="{hy(v):.1f}" y2="{hy(v):.1f}" class="grade"/>'
-             f'<text x="{L2 - 6}" y="{hy(v) + 4:.1f}" text-anchor="end" class="eixo">{v:.0%}</text>')
+# ---- mapa de calor dia da semana × hora
+L2, T2, cw, ch = 34, 16, 20, 25
+vtop = 0.075
+def cor(v):
+    t = min(max((v - 0.02) / (vtop - 0.02), 0), 1) ** 1.3
+    a, b = (247, 247, 244), (19, 122, 90)
+    return "#" + "".join(f"{round(x + (y - x) * t):02x}" for x, y in zip(a, b))
+q = []
 for h in range(0, 24, 3):
-    q.append(f'<text x="{hx(h):.1f}" y="{T2 + H2 + 16}" text-anchor="middle" class="eixo">{h}h</text>')
-for canal, classe in (("Site", "site"), ("App", "app")):
-    pts = " ".join(f"{hx(h):.1f},{hy(v):.1f}" for h, v in hora[canal].items())
-    q.append(f'<polyline points="{pts}" class="l {classe}"/>')
-q.append(f'<text x="{hx(23) + 6:.1f}" y="{hy(hora["App"][23]) - 2:.1f}" class="leg app-t">App</text>'
-         f'<text x="{hx(23) + 6:.1f}" y="{hy(hora["Site"][23]) + 12:.1f}" class="leg site-t">Site</text>')
-svg_hora = f'<svg width="{L2 + W2 + 36}" height="{T2 + H2 + 24}">{"".join(q)}</svg>'
+    q.append(f'<text x="{L2 + h * cw + cw / 2:.1f}" y="{T2 - 4}" text-anchor="middle" class="eixo">{h}h</text>')
+for i, dow in enumerate(grade.index):
+    y = T2 + i * ch
+    q.append(f'<text x="{L2 - 6}" y="{y + ch / 2 + 4:.1f}" text-anchor="end" class="eixo{" forte-t" if dow in (5, 6) else ""}">{dias[dow]}</text>')
+    for h in range(24):
+        q.append(f'<rect x="{L2 + h * cw + 1:.1f}" y="{y + 1:.1f}" width="{cw - 2}" height="{ch - 2}" rx="2" fill="{cor(grade.loc[dow, h])}"/>')
+# destaques: sábado de manhã e domingo à noite
+def caixa(dow, h0, h1, rotulo, lado):
+    i = list(grade.index).index(dow)
+    x0, x1, y = L2 + h0 * cw, L2 + (h1 + 1) * cw, T2 + i * ch
+    return (f'<rect x="{x0:.1f}" y="{y:.1f}" width="{x1 - x0:.1f}" height="{ch}" rx="3" class="destaque"/>'
+            f'<text x="{(x0 + x1) / 2:.1f}" y="{T2 + 7 * ch + 15:.1f}" text-anchor="middle" class="dest-t">{rotulo}</text>')
+q.append(caixa(5, 9, 12, f"sáb 11h: {grade.loc[5, 11]:.1%}".replace(".", ","), "dir"))
+q.append(caixa(6, 20, 22, f"dom 21h: {grade.loc[6, 21]:.1%}".replace(".", ","), "esq"))
+HW = L2 + 24 * cw
+svg_hora = f'<svg width="{HW + 8}" height="{T2 + 7 * ch + 22}">{"".join(q)}</svg>'
+
+leg = "".join(f'<i style="background:{cor(v)}"></i>' for v in (0.02, 0.031, 0.042, 0.053, 0.064, 0.075))
 
 valores = {
-    "SVG_DIA": svg_dia, "SVG_HORA": svg_hora,
-    "QUA": mil(s.loc[2, "median"]), "QUA_PCT": f"{s.loc[2, 'median'] / geral - 1:+.0%}",
-    "DOM": mil(s.loc[6, "median"]), "DOM_PCT": f"{s.loc[6, 'median'] / geral - 1:+.0%}".replace("-", "−"),
-    "SEX_MEDIA": mil(sexta), "GERAL": mil(geral), "SEX_MEDIANA": mil(s.loc[4, "median"]),
+    "SVG_DIA": svg_dia, "SVG_HORA": svg_hora, "LEG": leg, "GERAL": mil(geral),
+    "QUA_PCT": f"{s.loc[2, 'median'] / geral - 1:+.0%}",
+    "DOM_PCT": f"{s.loc[6, 'median'] / geral - 1:+.0%}".replace("-", "−"),
+    "SEX_MEDIA": mil(s.loc[4, "mean"]), "SEX_MEDIANA": mil(s.loc[4, "median"]),
+    "SAB_NOITE": f"{grade.loc[5, 21]:.1%}".replace(".", ","), "DOM_NOITE": f"{grade.loc[6, 21]:.1%}".replace(".", ","),
+    "COMERCIAL": f"{grade.loc[:, 10:17].sum(axis=1).mean():.0%}", "NOITE": f"{grade.loc[:, 18:23].sum(axis=1).mean():.0%}",
+    "MADRUGADA": f"{grade.loc[:, 0:5].sum(axis=1).mean():.0%}",
 }
 html = Path(__file__).with_name("06_semana_hora_modelo.html").read_text(encoding="utf-8")
 for chave, valor in valores.items():
     html = html.replace("{{" + chave + "}}", valor)
 destino.write_text(html, encoding="utf-8")
-print("ok", destino, {k: v for k, v in valores.items() if not k.startswith("SVG")})
+print("ok", destino, {k: v for k, v in valores.items() if not k.startswith(("SVG", "LEG"))})
